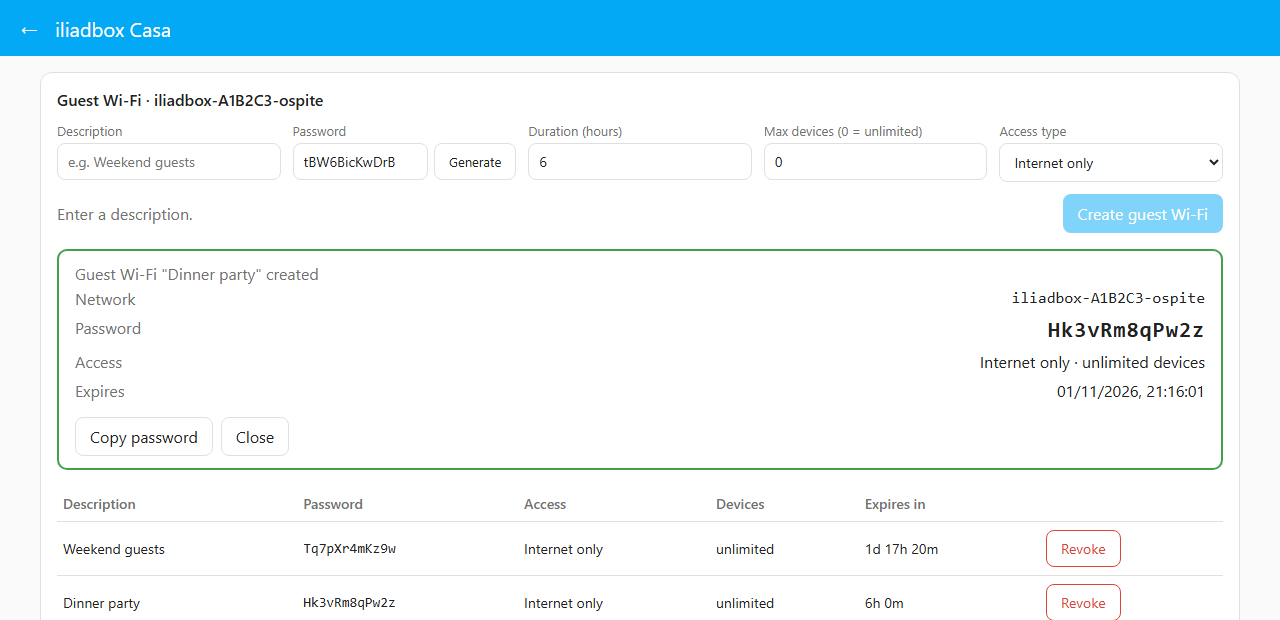
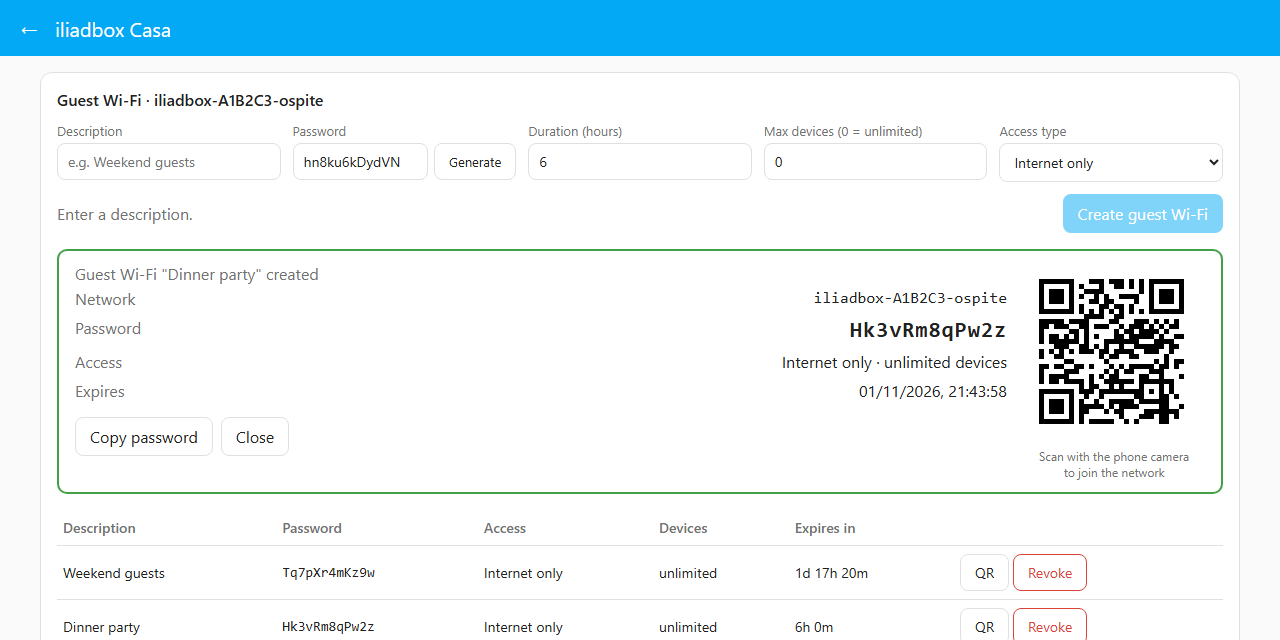
Guest Wi-Fi QR code in panel, card and as image entity (0.10.0)
- Standard WIFI: QR generated locally with segno (new requirement).
- Panel and card show it on creation and via a QR button per access;
  new admin-only websocket command iliadbox/guest_qr.
- New image entity with the QR of the latest guest access.

diff --git a/custom_components/iliadbox/frontend/iliadbox-guest-card.js b/custom_components/iliadbox/frontend/iliadbox-guest-card.js
@@ -24,6 +24,10 @@ const fmtRemaining = (s) => {
   return d ? `${d}d ${h}h` : `${h}h ${m}m`;
 };
 
+// The SVG comes from Home Assistant (segno), not from user input
+const qrBlock = (svg) =>
+  svg ? `<div><div class="qr">${svg}</div><div class="qr-hint">Scan with the phone camera<br>to join the network</div></div>` : "";
+
 const accessLabel = (t) => (t === "full" ? "Full network" : "Internet only");
 
 const STYLE = `
@@ -47,13 +51,19 @@ const STYLE = `
   button.danger { color: var(--error-color, #db4437); border-color: var(--error-color, #db4437); padding: 4px 10px; }
   button:disabled { opacity: 0.45; cursor: default; }
   .created { border: 2px solid var(--success-color, #43a047); border-radius: 12px; padding: 12px; margin-bottom: 12px; }
+  .created { display: flex; gap: 16px; flex-wrap: wrap; align-items: flex-start; }
+  .created .info { flex: 1; min-width: 220px; }
+  .qr { background: #fff; border-radius: 10px; padding: 6px; line-height: 0; }
+  .qr svg { width: 170px; height: 170px; }
+  .qr-hint { font-size: 12px; color: var(--secondary-text-color); text-align: center; margin-top: 4px; line-height: 1.3; }
   .row { display: flex; justify-content: space-between; gap: 12px; padding: 3px 0; }
   .row span:first-child { color: var(--secondary-text-color); }
   .pw { font-size: 22px; font-weight: 700; letter-spacing: 1px; }
   .actions { display: flex; gap: 8px; margin-top: 8px; }
   .access { display: grid; grid-template-columns: 1fr auto; gap: 2px 8px; padding: 8px 0; border-top: 1px solid var(--divider-color); }
   .access .name { font-weight: 600; }
-  .access button { grid-row: 1 / span 2; grid-column: 2; align-self: center; }
+  .access .btns { grid-row: 1 / span 2; grid-column: 2; align-self: center; display: flex; gap: 6px; }
+  .access button { padding: 4px 10px; }
   .error { color: var(--error-color, #db4437); font-size: 13px; }
 `;
 
@@ -154,8 +164,10 @@ class IliadboxGuestCard extends HTMLElement {
       this._create();
     });
     this.shadowRoot.getElementById("list").addEventListener("click", (e) => {
-      const btn = e.target.closest("button[data-id]");
-      if (btn) this._revoke(Number(btn.dataset.id), btn.dataset.name);
+      const del = e.target.closest("button[data-id]");
+      if (del) this._revoke(Number(del.dataset.id), del.dataset.name);
+      const qr = e.target.closest("button[data-qr]");
+      if (qr) this._showQr(Number(qr.dataset.qr), qr.dataset.name);
     });
     this._built = true;
     this._validate();
@@ -235,6 +247,7 @@ class IliadboxGuestCard extends HTMLElement {
     const el = this.shadowRoot.getElementById("result");
     el.innerHTML = `
       <div class="created">
+        <div class="info">
         <div class="muted">"${esc(res.description)}" created</div>
         <div class="row"><span>Network</span><span class="mono">${esc(res.ssid || "—")}</span></div>
         <div class="row"><span>Password</span><span class="mono pw">${esc(res.password)}</span></div>
@@ -244,9 +257,23 @@ class IliadboxGuestCard extends HTMLElement {
         <div class="row"><span>Expires</span><span>${esc(new Date(res.expires).toLocaleString())}</span></div>
         <div class="actions"><button type="button" id="copy">Copy password</button>
           <button type="button" id="close">Close</button></div>
+        </div>
+        ${qrBlock(res.qr_svg)}
       </div>`;
     el.querySelector("#copy").onclick = () => navigator.clipboard?.writeText(res.password);
     el.querySelector("#close").onclick = () => (el.innerHTML = "");
+  }
+
+  async _showQr(id, name) {
+    const el = this.shadowRoot.getElementById("result");
+    try {
+      const res = await this._hass.callWS({ type: "iliadbox/guest_qr", entry_id: this._box().entry_id, access_id: id });
+      el.innerHTML = `<div class="created"><div class="info"><div class="muted">QR code of "${esc(name)}"</div>
+        <div class="actions"><button type="button" id="close">Close</button></div></div>${qrBlock(res.qr_svg)}</div>`;
+      el.querySelector("#close").onclick = () => (el.innerHTML = "");
+    } catch (err) {
+      this._setError(`Cannot show the QR code: ${err.message || err}`);
+    }
   }
 
   async _revoke(id, name) {
@@ -271,7 +298,8 @@ class IliadboxGuestCard extends HTMLElement {
               <span class="name">${esc(p.description)}${p.key ? ` · <span class="mono">${esc(p.key)}</span>` : ""}</span>
               ${
                 this._isAdmin
-                  ? `<button class="danger" data-id="${esc(k.id)}" data-name="${esc(p.description)}">Revoke</button>`
+                  ? `<span class="btns"><button data-qr="${esc(k.id)}" data-name="${esc(p.description)}">QR</button>
+                     <button class="danger" data-id="${esc(k.id)}" data-name="${esc(p.description)}">Revoke</button></span>`
                   : ""
               }
               <span class="muted">${accessLabel(p.access_type)} · ${

diff --git a/custom_components/iliadbox/frontend/iliadbox-panel.js b/custom_components/iliadbox/frontend/iliadbox-panel.js
@@ -51,6 +51,10 @@ const sensorName = (id) =>
   : /^fan(\d+)/.test(id) ? `Fan ${Number(id.match(/^fan(\d+)/)[1]) + 1}`
   : id;
 
+// The SVG comes from Home Assistant (segno), not from user input
+const qrBlock = (svg) =>
+  svg ? `<div><div class="qr">${svg}</div><div class="qr-hint">Scan with the phone camera<br>to join the network</div></div>` : "";
+
 const ipv4 = (host) =>
   (host.l3connectivities || []).find((l) => l.af === "ipv4" && l.active)?.addr ||
   (host.l3connectivities || []).find((l) => l.af === "ipv4")?.addr ||
@@ -119,6 +123,11 @@ const STYLE = `
   .inline input { flex: 1; }
   .form-foot { grid-column: 1 / -1; display: flex; justify-content: space-between; align-items: center; gap: 12px; flex-wrap: wrap; }
   .created { border: 2px solid var(--success-color, #43a047); border-radius: 10px; padding: 12px 16px; margin-bottom: 16px; }
+  .created { display: flex; gap: 16px; flex-wrap: wrap; align-items: flex-start; }
+  .created .info { flex: 1; min-width: 220px; }
+  .qr { background: #fff; border-radius: 10px; padding: 6px; line-height: 0; }
+  .qr svg { width: 170px; height: 170px; }
+  .qr-hint { font-size: 12px; color: var(--secondary-text-color); text-align: center; margin-top: 4px; line-height: 1.3; }
   .mono { font-family: ui-monospace, Consolas, monospace; }
   .big-pw { font-size: 22px; font-weight: 600; letter-spacing: 1px; }
   @media (max-width: 700px) { .hide-narrow { display: none; } }
@@ -287,8 +296,10 @@ class IliadboxPanel extends HTMLElement {
       this._createGuest();
     });
     this.shadowRoot.getElementById("guest-list").addEventListener("click", (e) => {
-      const btn = e.target.closest("button[data-delete]");
-      if (btn) this._deleteGuest(btn.dataset.entry, Number(btn.dataset.delete), btn.dataset.name);
+      const del = e.target.closest("button[data-delete]");
+      if (del) this._deleteGuest(del.dataset.entry, Number(del.dataset.delete), del.dataset.name);
+      const qr = e.target.closest("button[data-qr]");
+      if (qr) this._showQr(qr.dataset.entry, Number(qr.dataset.qr), qr.dataset.name);
     });
     this._built = true;
     this._validateGuest();
@@ -336,6 +347,7 @@ class IliadboxPanel extends HTMLElement {
       });
       this.shadowRoot.getElementById("guest-result").innerHTML = `
         <div class="created">
+          <div class="info">
           <div class="muted">Guest Wi-Fi "${esc(res.description)}" created</div>
           <div class="row"><span>Network</span><span class="mono">${esc(res.ssid || "—")}</span></div>
           <div class="row"><span>Password</span><span class="mono big-pw">${esc(res.password)}</span></div>
@@ -345,6 +357,8 @@ class IliadboxPanel extends HTMLElement {
           <div class="row"><span>Expires</span><span>${esc(new Date(res.expires).toLocaleString())}</span></div>
           <div class="actions"><button type="button" id="copy">Copy password</button>
             <button type="button" id="dismiss">Close</button></div>
+          </div>
+          ${qrBlock(res.qr_svg)}
         </div>`;
       this.shadowRoot.getElementById("copy").onclick = () => navigator.clipboard?.writeText(res.password);
       this.shadowRoot.getElementById("dismiss").onclick = () =>
@@ -358,6 +372,18 @@ class IliadboxPanel extends HTMLElement {
     this._busy = false;
     this._validateGuest();
     this._refresh();
+  }
+
+  async _showQr(entryId, accessId, name) {
+    const el = this.shadowRoot.getElementById("guest-result");
+    try {
+      const res = await this._hass.callWS({ type: "iliadbox/guest_qr", entry_id: entryId, access_id: accessId });
+      el.innerHTML = `<div class="created"><div class="info"><div class="muted">QR code of "${esc(name)}"</div>
+        <div class="actions"><button type="button" id="dismiss">Close</button></div></div>${qrBlock(res.qr_svg)}</div>`;
+      this.shadowRoot.getElementById("dismiss").onclick = () => (el.innerHTML = "");
+    } catch (err) {
+      alert(`Cannot show the QR code: ${err.message || err}`);
+    }
   }
 
   async _deleteGuest(entryId, accessId, name) {
@@ -392,7 +418,8 @@ class IliadboxPanel extends HTMLElement {
                 <td>${fmtUptime(k.remaining)}</td>
                 <td>${
                   isAdmin
-                    ? `<button class="danger" data-delete="${esc(k.id)}" data-entry="${esc(k.entry)}" data-name="${esc(p.description)}">Revoke</button>`
+                    ? `<button data-qr="${esc(k.id)}" data-entry="${esc(k.entry)}" data-name="${esc(p.description)}">QR</button>
+                       <button class="danger" data-delete="${esc(k.id)}" data-entry="${esc(k.entry)}" data-name="${esc(p.description)}">Revoke</button>`
                     : ""
                 }</td>
               </tr>`;

diff --git a/custom_components/iliadbox/image.py b/custom_components/iliadbox/image.py
@@ -1,0 +1,83 @@
+"""QR code of the latest guest Wi-Fi access, as an image entity.
+
+The QR code contains the guest password: every Home Assistant user who can
+see the entity can read it. Disable the entity if that is not wanted.
+"""
+
+from __future__ import annotations
+
+from typing import Any
+
+from homeassistant.components.image import ImageEntity
+from homeassistant.core import HomeAssistant, callback
+from homeassistant.helpers.entity_platform import AddEntitiesCallback
+from homeassistant.util import dt as dt_util
+
+from .coordinator import IliadboxConfigEntry, IliadboxCoordinator
+from .entity import IliadboxEntity
+from .guest import wifi_qr
+
+
+async def async_setup_entry(
+    hass: HomeAssistant,
+    entry: IliadboxConfigEntry,
+    async_add_entities: AddEntitiesCallback,
+) -> None:
+    async_add_entities([IliadboxGuestQrImage(hass, entry.runtime_data)])
+
+
+class IliadboxGuestQrImage(IliadboxEntity, ImageEntity):
+    """Scan to join the guest network with the most recently created access."""
+
+    _attr_translation_key = "guest_qr"
+    _attr_content_type = "image/png"
+
+    def __init__(self, hass: HomeAssistant, coordinator: IliadboxCoordinator) -> None:
+        IliadboxEntity.__init__(self, coordinator, "guest_qr")
+        ImageEntity.__init__(self, hass)
+        self._shown: tuple[Any, ...] | None = None
+        self._update_shown()
+
+    def _latest(self) -> dict[str, Any] | None:
+        # Access ids grow with each creation: the highest is the newest
+        keys = self.coordinator.data["guest"]["keys"]
+        return max(keys, key=lambda k: k["id"]) if keys else None
+
+    def _update_shown(self) -> None:
+        """Bump image_last_updated when the QR content changes, so cards reload it."""
+        access = self._latest()
+        ssid = self.coordinator.data["guest"]["ssid"]
+        shown = (
+            (access["id"], ssid, access.get("params", {}).get("key")) if access else None
+        )
+        if shown != self._shown:
+            self._shown = shown
+            self._attr_image_last_updated = dt_util.utcnow()
+
+    @property
+    def available(self) -> bool:
+        return super().available and self._shown is not None and self._shown[1] is not None
+
+    @property
+    def extra_state_attributes(self) -> dict[str, Any]:
+        access = self._latest()
+        if not access:
+            return {}
+        params = access.get("params", {})
+        return {
+            "ssid": self.coordinator.data["guest"]["ssid"],
+            "access_id": access["id"],
+            "description": params.get("description"),
+            "access_type": params.get("access_type"),
+        }
+
+    @callback
+    def _handle_coordinator_update(self) -> None:
+        self._update_shown()
+        super()._handle_coordinator_update()
+
+    async def async_image(self) -> bytes | None:
+        if not self._shown or not self._shown[1] or not self._shown[2]:
+            return None
+        _, ssid, password = self._shown
+        return await self.hass.async_add_executor_job(wifi_qr, ssid, password, "png")

diff --git a/custom_components/iliadbox/panel.py b/custom_components/iliadbox/panel.py
@@ -17,7 +17,7 @@ from homeassistant.core import HomeAssistant, callback
 from .api import IliadboxError
 from .const import APP_VERSION, DOMAIN
 from .coordinator import IliadboxCoordinator
-from .guest import async_create_guest, async_delete_guest
+from .guest import access_qr_svg, async_create_guest, async_delete_guest, wifi_qr
 
 _LOGGER = logging.getLogger(__name__)
 
@@ -52,6 +52,7 @@ async def async_register_panel(hass: HomeAssistant) -> None:
         websocket_api.async_register_command(hass, ws_reboot)
         websocket_api.async_register_command(hass, ws_create_guest)
         websocket_api.async_register_command(hass, ws_delete_guest)
+        websocket_api.async_register_command(hass, ws_guest_qr)
         # Dashboard card, loaded on every dashboard
         frontend.add_extra_js_url(hass, f"{STATIC_URL}/iliadbox-guest-card.js?v={APP_VERSION}")
         hass.data[DATA_STATIC] = True
@@ -221,7 +222,33 @@ async def ws_create_guest(
         _LOGGER.error("Guest Wi-Fi creation from panel failed: %s", err)
         connection.send_error(msg["id"], "box_error", str(err))
         return
+    if details["ssid"]:
+        details["qr_svg"] = wifi_qr(details["ssid"], details["password"]).decode()
     connection.send_result(msg["id"], details)
+
+
+@websocket_api.websocket_command(
+    {
+        vol.Required("type"): "iliadbox/guest_qr",
+        vol.Required("entry_id"): str,
+        vol.Required("access_id"): int,
+    }
+)
+@websocket_api.require_admin
+@callback
+def ws_guest_qr(
+    hass: HomeAssistant, connection: websocket_api.ActiveConnection, msg: dict[str, Any]
+) -> None:
+    """QR code (SVG) of an existing guest access. Admins only: it holds the password."""
+    coordinator = _coordinators(hass).get(msg["entry_id"])
+    access = coordinator and next(
+        (k for k in coordinator.data["guest"]["keys"] if k["id"] == msg["access_id"]), None
+    )
+    svg = access and access_qr_svg(coordinator, access)
+    if not svg:
+        connection.send_error(msg["id"], "not_found", "Guest access not found")
+        return
+    connection.send_result(msg["id"], {"qr_svg": svg})
 
 
 @websocket_api.websocket_command(

diff --git a/custom_components/iliadbox/guest.py b/custom_components/iliadbox/guest.py
@@ -2,11 +2,14 @@
 
 from __future__ import annotations
 
+import io
 import logging
 import secrets
 import string
 from datetime import timedelta
 from typing import Any
+
+from segno import helpers as segno_helpers
 
 from homeassistant.components import persistent_notification
 from homeassistant.core import HomeAssistant
@@ -28,6 +31,29 @@ _ALPHABET = "".join(c for c in string.ascii_letters + string.digits if c not in 
 
 def generate_password(length: int = 12) -> str:
     return "".join(secrets.choice(_ALPHABET) for _ in range(length))
+
+
+def wifi_qr(ssid: str, password: str, kind: str = "svg") -> bytes:
+    """Standard Wi-Fi QR code (WIFI:T:WPA;S:...;P:...;;), as SVG or PNG.
+
+    Phone cameras read it and offer to join the network.
+    """
+    qr = segno_helpers.make_wifi(ssid=ssid, password=password, security="WPA")
+    buf = io.BytesIO()
+    if kind == "png":
+        qr.save(buf, kind="png", scale=10, border=2)
+    else:
+        qr.save(buf, kind="svg", scale=5, border=2, xmldecl=False, svgns=True, light="#fff")
+    return buf.getvalue()
+
+
+def access_qr_svg(coordinator: IliadboxCoordinator, access: dict[str, Any]) -> str | None:
+    """QR of an access as inline SVG, or None if the box gave no network name."""
+    ssid = coordinator.data["guest"]["ssid"]
+    password = access.get("params", {}).get("key")
+    if not ssid or not password:
+        return None
+    return wifi_qr(ssid, password).decode()
 
 
 def validate(

diff --git a/custom_components/iliadbox/const.py b/custom_components/iliadbox/const.py
@@ -15,7 +15,7 @@ DEFAULT_LOG_LEVEL = "info"
 
 APP_ID = "ha.iliadbox"
 APP_NAME = "Home Assistant"
-APP_VERSION = "0.9.0"
+APP_VERSION = "0.10.0"
 DEVICE_NAME = "Home Assistant"
 
 # LAN devices not seen for more than this many days are hidden (0 = keep all)
@@ -28,4 +28,4 @@ DEFAULT_SCAN_INTERVAL = 60
 MIN_SCAN_INTERVAL = 10
 MAX_SCAN_INTERVAL = 3600
 
-PLATFORMS = ["binary_sensor", "button", "device_tracker", "sensor", "switch"]
+PLATFORMS = ["binary_sensor", "button", "device_tracker", "image", "sensor", "switch"]

diff --git a/CHANGELOG.md b/CHANGELOG.md
@@ -1,5 +1,12 @@
 # Changelog
 
+## 0.10.0
+
+- **Guest Wi-Fi QR code**: scan it with the phone camera to join the guest network.
+  - Shown in the panel and in the dashboard card right after creation, and with the new **QR** button on each active access (admins only).
+  - New entity *Guest Wi-Fi QR code* (`image`): QR of the most recent access, for dashboards.
+- New requirement `segno` (installed automatically) to generate the QR codes locally.
+
 ## 0.9.0
 
 - New setting **Hide devices not seen for** (default 30 days, 0 = all): devices whose last activity is older are removed from Home Assistant and from the panel, and come back automatically if they reconnect.
